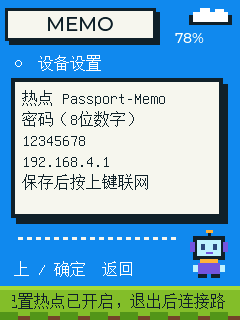
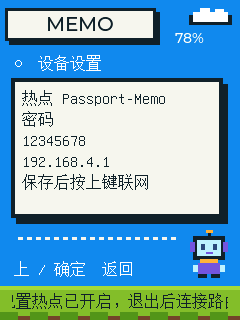
fix: simplify setup password labels

diff --git a/main/memo_portal.html b/main/memo_portal.html
@@ -266,8 +266,7 @@
     <section id="login">
       <h2>连接你的备忘录</h2>
       <p class="muted">
-        在 Passport 上长按确定键，填写屏幕显示的 8
-        位数字密码，与热点密码相同。管理窗口开放 10
+        在 Passport 上长按确定键，填写屏幕显示的密码，与热点密码相同。管理窗口开放 10
         分钟。设备重启后密码会更新，请以屏幕为准。
       </p>
       <form id="unlock">
@@ -298,8 +297,7 @@
           正在读取网络状态…
         </p>
         <p class="muted">
-          Wi-Fi 名称和密码请填写路由器的；设备屏幕上的 8
-          位数字用于热点和网页登录。
+          Wi-Fi 名称和密码请填写路由器的；设备屏幕上的密码用于热点和网页登录。
         </p>
         <ol>
           <li>配置保存后，按设备上键退出设置并连接路由器，热点会关闭。</li>

diff --git a/main/memo_ui.c b/main/memo_ui.c
@@ -55,7 +55,7 @@ static void update(lv_timer_t *timer) {
   } else if (v.phase == MEMO_SETTINGS) {
     char settings[320];
     snprintf(settings, sizeof(settings),
-             "热点 Passport-Memo\n密码（8位数字）\n%s\n192.168.4.1\n%s",
+             "热点 Passport-Memo\n密码\n%s\n192.168.4.1\n%s",
              v.setup_key[0] ? v.setup_key : "开启中…",
              v.portal ? "保存后按上键联网" : "长按确定开启热点");
     set_text(content, settings);

diff --git a/docs/validation.md b/docs/validation.md
@@ -13,7 +13,7 @@ Recorded on **2026-09-11**, updated **2026-09-12**. Build and host tests are rep
 - Actual LVGL UI rendered on the host, including all nine phases with 240-character text. Prior measured peak: 29,336 / 40,960 bytes.
 - EE04 host tests: content/image/refresh behavior, nonce expiry, replay handling, rollover and signing bytes. EE04 firmware compiles separately for XIAO ESP32-S3.
 
-Published-source build: Passport application **2,100,416 bytes / 3,145,728 limit**, merged image **2,165,952 bytes**; EE04 application **1,769,744 bytes**, static RAM **63,792 bytes**. Sizes can vary with the Git-derived version string.
+Published-source build: Passport application **2,100,368 bytes / 3,145,728 limit**, merged image **2,165,904 bytes**; EE04 application **1,769,744 bytes**, static RAM **63,792 bytes**. Sizes can vary with the Git-derived version string.
 
 ## Real Passport session
 

diff --git a/docs/validation.zh_CN.md b/docs/validation.zh_CN.md
@@ -13,7 +13,7 @@
 - 真实 LVGL 界面在主机渲染，覆盖九种状态及 240 字文本。此前测得峰值 29,336 / 40,960 字节。
 - EE04 主机测试：内容、图片、刷新逻辑，nonce 过期、防重放、计数回绕及签名字节。配套固件另行面向 XIAO ESP32-S3 编译。
 
-本次公开源码构建：Passport 应用 **2,100,416 / 3,145,728 字节**，合并镜像 **2,165,952 字节**；EE04 应用 **1,769,744 字节**，静态 RAM **63,792 字节**。Git 版本字符串变化可能令大小略有变化。
+本次公开源码构建：Passport 应用 **2,100,368 / 3,145,728 字节**，合并镜像 **2,165,904 字节**；EE04 应用 **1,769,744 字节**，静态 RAM **63,792 字节**。Git 版本字符串变化可能令大小略有变化。
 
 ## Passport 实机会话
 

diff --git a/docs/CHANGELOG.md b/docs/CHANGELOG.md
@@ -2,6 +2,10 @@
 
 # Changelog
 
+## Simpler setup labels — 2026-09-12
+
+- Remove the password-length hint from the device setup screen and portal copy, keeping the password display and login behavior intact.
+
 ## Note header spacing — 2026-09-12
 
 - Separate the date/status row from the text field by 12 px, center the items and allow wrapping on narrow screens.

diff --git a/docs/CHANGELOG.zh_CN.md b/docs/CHANGELOG.zh_CN.md
@@ -2,6 +2,10 @@
 
 # 更新记录
 
+## 简化设置页文案 — 2026-09-12
+
+- 去掉设备设置页和网页中的密码位数提示，保留密码显示与登录方式。
+
 ## 备忘录标题间距 — 2026-09-12
 
 - 日期与状态标签行和正文输入框之间增加 12 px 间距，居中对齐，窄屏下允许换行。
